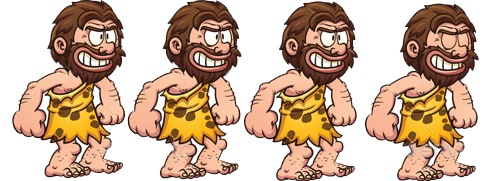
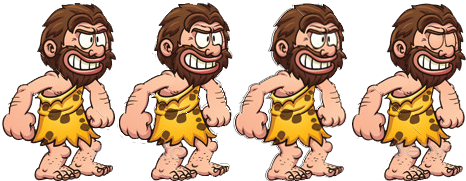
Se agrega Cavernicola parado

diff --git a/Caveman/Models/Background.cs b/Caveman/Models/Background.cs
@@ -17,27 +17,17 @@ namespace Caveman.Models
 
         public float Velocity = 2.0f;
 
-        public Background(Texture2D _texture0, Texture2D _texture1, Texture2D _texture2)
+        public Background(Texture2D _texture0, Texture2D _texture1)
         {
-            //this.layer0 = new BaseSprite { Position = new Rectangle(0, 0, Game1.Bounds.Width/*_texture0.Width*/, _texture0.Height), Texture= _texture0,Color = Color.White };
-            //this.layer1 = new BaseSprite { Position = new Rectangle(0, -5, Game1.Bounds.Width/*_texture1.Width*/, _texture1.Height), Texture = _texture1, Color = Color.White };
-            //this.layer2 = new BaseSprite { Position = new Rectangle(0, 260, _texture2.Width, _texture2.Height), Texture = _texture2, Color = Color.White };
-
             this.layer0 = new BaseSprite { Position = new Vector2(0,0), Texture= _texture0,Color = Color.White };
-            this.layer1 = new BaseSprite { Position = new Vector2(0, -5), Texture = _texture1, Color = Color.White };
-            this.layer2 = new BaseSprite { Position = new Vector2(0, 260), Texture = _texture2, Color = Color.White };
+            this.layer2 = new BaseSprite { Position = new Vector2(0, 260), Texture = _texture1, Color = Color.White };
             position = Game1.Bounds;
         }
 
         internal void Draw(ref SpriteBatch spriteBatch, ref GameTime gameTime)
         {
             spriteBatch.Draw(layer0.Texture, layer0.Position, layer0.Color);
-            spriteBatch.Draw(layer1.Texture, layer1.Position, layer1.Color);
             spriteBatch.Draw(layer2.Texture, layer2.Position, layer2.Color);
-
-            //spriteBatch.Draw(layer0.Texture, new Vector2(layer0.Position.X, layer0.Position.Y), layer0.Color);
-            //spriteBatch.Draw(layer1.Texture, new Vector2(layer1.Position.X, layer1.Position.Y), layer1.Color);
-            //spriteBatch.Draw(layer2.Texture, new Vector2(layer2.Position.X, layer2.Position.Y), layer2.Color);
 
             Vector2 rec2 = layer2.Position;
             rec2.X += layer2.Texture.Width;
@@ -47,21 +37,12 @@ namespace Caveman.Models
 
         internal void Update(GameTime gameTime)
         {
-            //layer2.Position = new Rectangle(layer2.Position.X - 1, layer2.Position.Y, layer2.Position.Width, layer2.Position.Height);
 
             if (layer2.Position.X <= -layer2.Texture.Width)
                 layer2.Position = new Vector2(0,layer2.Position.Y);
-            //new Rectangle(0,
-            //                                layer2.Position.Y,
-            //                                layer2.Position.Width,
-            //                                layer2.Position.Height);
 
             else
                 layer2.Position = new Vector2(layer2.Position.X - Velocity, layer2.Position.Y);
-            //layer2.Position = new Rectangle(layer2.Position.X - 1,
-            //                            layer2.Position.Y,
-            //                            layer2.Position.Width,
-            //                            layer2.Position.Height);
         }
     }
 }

diff --git a/Caveman/Models/Caveman.cs b/Caveman/Models/Caveman.cs
@@ -1,0 +1,74 @@
+using Microsoft.Xna.Framework;
+using Microsoft.Xna.Framework.Content;
+using Microsoft.Xna.Framework.Graphics;
+using System;
+using System.Collections.Generic;
+using System.Linq;
+using System.Text;
+using System.Threading.Tasks;
+
+namespace Caveman.Models
+{
+    public class Caveman : Sprite
+    {
+        float _timer;
+        public Caveman(Vector2 _position/*, Texture2D _texture, Color _color, Dictionary<string, Animation> _animations*/)
+            //: base(_position,_texture, _color, _animations)
+        {
+            this.Position = _position;
+            this.Color = Color.White;
+        }
+
+        public override void LoadContent(ContentManager content)
+        {
+            Dictionary<String, Animation> animDict = new Dictionary<string, Animation> {
+                {"Standing",
+                    new Animation(content.Load<Texture2D>("CavemanStanding_sm"),4,0.5f)
+                },
+                {"Walking",
+                    new Animation(content.Load<Texture2D>("CavemanRunning"),7,0.2f)
+                },
+                {"Jumping",
+                    new Animation(content.Load<Texture2D>("CavemanJumping"),4,0.2f)
+                },
+                {"Hitting",
+                    new Animation(content.Load<Texture2D>("CavemanHitting"),5,0.2f)
+                },
+            };
+
+            this.AnimationsDict = animDict;
+        }
+
+        public override void Update(ref GameTime gameTime)
+        {
+            currentAnimation = AnimationsDict["Standing"];
+            //currentAnimation.CurrentFrame = 0;
+
+            _timer += (float)gameTime.ElapsedGameTime.TotalSeconds;
+
+            if (_timer > currentAnimation.FrameSpeed)
+            {
+                _timer = 0f;
+
+                currentAnimation.CurrentFrame++;
+
+                if (currentAnimation.CurrentFrame >= currentAnimation.FrameCount)
+                    currentAnimation.CurrentFrame = 0;
+            }
+        }
+
+
+        public override void Draw(ref SpriteBatch spriteBatch, ref GameTime gameTime)
+        {
+            //spriteBatch.Draw(this.currentAnimati, this.Position, this.Color);
+
+            spriteBatch.Draw(currentAnimation.Texture,
+                 Position,
+                 new Rectangle(currentAnimation.CurrentFrame * currentAnimation.FrameWidth,
+                               0,
+                               currentAnimation.FrameWidth,
+                               currentAnimation.FrameHeight),
+                 Color.White);
+        }
+    }
+}

diff --git a/Caveman/Models/Level1.cs b/Caveman/Models/Level1.cs
@@ -1,4 +1,5 @@
 using Caveman.Models.Managers;
+using Microsoft.Xna.Framework;
 using Microsoft.Xna.Framework.Content;
 using Microsoft.Xna.Framework.Graphics;
 using System;
@@ -11,6 +12,7 @@ namespace Caveman.Models
 {
     public class Level1:Level
     {
+        Caveman caveman;
         private static Level1 instance = null;
         public static Level1 Instance
         {
@@ -26,11 +28,28 @@ namespace Caveman.Models
 
         public override void LoadContent(ContentManager content)
         {
-            Texture2D _texture1 = content.Load<Texture2D>("./Backgrounds/layer_01");
-            Texture2D _texture2 = content.Load<Texture2D>("./Backgrounds/layer_02");
-            Texture2D _texture3 = content.Load<Texture2D>("./Backgrounds/treeses_pasto4");
+            #region Background
+            Texture2D _texture0 = content.Load<Texture2D>("./Backgrounds/posible-bg3");
+            Texture2D _texture1 = content.Load<Texture2D>("./Backgrounds/treeses_pasto4");
 
-            this.background = new Background(_texture1,_texture2,_texture3);
+            this.background = new Background(_texture0,_texture1);
+
+            #endregion
+
+            caveman = new Caveman(new Vector2(0, 350));
+            caveman.LoadContent(content);
+        }
+
+        public override void Update(ref GameTime gameTime)
+        {
+            base.Update(ref gameTime);
+            caveman.Update(ref gameTime);
+        }
+
+        public override void Draw(ref SpriteBatch spriteBatch, ref GameTime gameTime)
+        {
+            base.Draw(ref spriteBatch, ref gameTime);
+            caveman.Draw(ref spriteBatch, ref gameTime);
         }
     }
 }

diff --git a/Caveman/Models/Sprite.cs b/Caveman/Models/Sprite.cs
@@ -1,0 +1,37 @@
+using Microsoft.Xna.Framework;
+using Microsoft.Xna.Framework.Content;
+using Microsoft.Xna.Framework.Graphics;
+using System;
+using System.Collections.Generic;
+using System.Linq;
+using System.Text;
+using System.Threading.Tasks;
+
+namespace Caveman.Models
+{
+    public class Sprite : BaseSprite
+    {
+        protected Dictionary<string, Animation> AnimationsDict;
+        protected Animation currentAnimation;
+
+        public virtual void LoadContent(ContentManager content)
+        {
+            throw new NotImplementedException();
+        }
+
+        public virtual void UnloadContent(ContentManager content)
+        {
+            throw new NotImplementedException();
+        }
+
+        public virtual void Update(ref GameTime gameTime)
+        {
+            throw new NotImplementedException();
+        }
+
+        public virtual void Draw(ref SpriteBatch spriteBatch, ref GameTime gameTime)
+        {
+            throw new NotImplementedException();
+        }
+    }
+}

diff --git a/Caveman/Models/BaseSprite.cs b/Caveman/Models/BaseSprite.cs
@@ -10,17 +10,9 @@ namespace Caveman.Models
 {
     public class BaseSprite
     {
-        //public Rectangle Position { get; set; }
         public Vector2 Position { get; set; }
         public Color Color { get; set; }
         public Texture2D Texture { get; set; } 
-
-        public BaseSprite(Vector2 _position, Texture2D _texture, Color _color)
-        {
-            this.Position = _position;
-            this.Texture = _texture;
-            this.Color = _color;
-        }
 
         public BaseSprite()
         {

diff --git a/Caveman/Models/Animation.cs b/Caveman/Models/Animation.cs
@@ -23,7 +23,7 @@ namespace Caveman.Models
 
         public Texture2D Texture { get; private set; }
 
-        public Animation(Texture2D texture, int frameCount)
+        public Animation(Texture2D texture, int frameCount, float frameSpeed)
         {
             Texture = texture;
 
@@ -31,7 +31,9 @@ namespace Caveman.Models
 
             IsLooping = true;
 
-            FrameSpeed = 0.2f;
+            FrameSpeed = frameSpeed;
+
+            CurrentFrame = 0;
         }
     }
 }

diff --git a/Caveman/Game1.cs b/Caveman/Game1.cs
@@ -2,6 +2,7 @@
 using Microsoft.Xna.Framework;
 using Microsoft.Xna.Framework.Graphics;
 using Microsoft.Xna.Framework.Input;
+using System;
 
 namespace Caveman
 {
